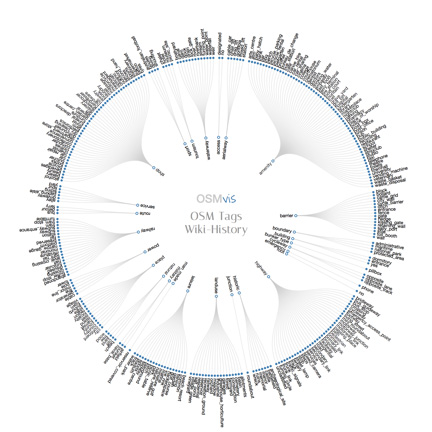
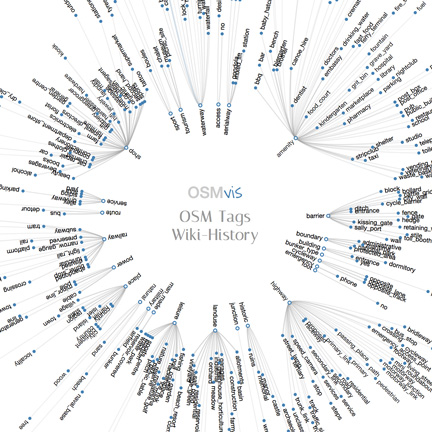
visualizations/osm-tags-history-wiki improved

diff --git a/visualizations/osm-tags-history-wiki/script.js b/visualizations/osm-tags-history-wiki/script.js
@@ -1,9 +1,13 @@
-const diameter = Math.min(window.innerHeight, window.innerWidth) - 50
+const width = window.innerWidth
+const height = window.innerHeight
 const labelWidth = 120
 const animationDuration = 300
 const animationDelay = 100
 const animationEventDelay = 450
 const animationEventHold = 600
+
+const angle = (x, y) => Math.atan(y / x) + (x < 0 ? Math.PI : 0)
+const length = (x, y) => Math.sqrt(x * x + y * y)
 
 $(document).ready(() => {
   d3.json('../data/osm-tags-history-wiki.json', dataset => {
@@ -27,37 +31,39 @@ $(document).ready(() => {
     }
     
     // diagram
-    const svg = d3.select('.svg')
+    const svgParent = d3.select('.svg')
       .append('svg')
-        .attr('width', diameter)
-        .attr('height', diameter)
-        .style('margin-left', -diameter / 2)
-        .style('margin-top', -diameter / 2)
+        .attr('width', width)
+        .attr('height', height)
+        .style('margin-left', -width / 2)
+        .style('margin-top', -height / 2)
       .append('g')
-        .attr('transform', `translate(${diameter / 2}, ${diameter / 2})`)
+        .attr('transform', `translate(${width / 2}, ${height / 2})`)
+    const svg = svgParent.append('g')
+    svgParent.append('g').classed('svg-hover', true)
     
-    var angle = 0;
+    var svgAngle = 0;
     const computeAngle = () => {
       const box = d3.select('.svg').select('svg').node().getBoundingClientRect()
       const centerX = d3.event.x - box.left - box.width / 2
       const centerY = d3.event.y - box.top - box.height / 2
-      return (Math.atan (centerY / centerX) + (centerX < 0 ? Math.PI : 0)) / (2 * Math.PI) * 180 
+      return angle(centerX, centerY) / (2 * Math.PI) * 180 
     }
     const rotateStart = () => {
-      angle -= computeAngle()
+      svgAngle -= computeAngle()
     }
     const rotate = () => {
       const a = computeAngle()
-      svg.attr('transform', `translate(${diameter / 2}, ${diameter / 2}) rotate(${angle + a})`)
+      svgParent.attr('transform', `translate(${width / 2}, ${height / 2}) rotate(${svgAngle + a})`)
     }
     const rotateEnd = () => {
-      angle = angle + computeAngle()
+      svgAngle += computeAngle()
     }
     d3.select('.svg').call(d3.drag().on('start', rotateStart).on('drag', rotate).on('end', rotateEnd))
     
     const stratify = d3.stratify().id(d => d.id).parentId(d => d.parentId)
     const tree = d3.tree()
-      .size([360, diameter / 2 - labelWidth])
+      .size([360, Math.min(width, height) / 2 - labelWidth])
       .separation((a, b) => (a.parent == b.parent ? 1 : 2) / a.depth)
     const project = (a, radius) => [radius * Math.cos((a - 90) / 180 * Math.PI), radius * Math.sin((a - 90) / 180 * Math.PI)]
     
@@ -66,7 +72,39 @@ $(document).ready(() => {
       const dataTree = prepareDataForTree(_(data).filter(d => _(d.history).some(h => h[0].isSameOrBefore(m)) && _(d.history).every(h => h[0].isAfter(m) || h[1] > 0)))
       const root = tree(stratify(_(dataTree).sortBy(x => x.id)))
       
+      const timeScaling = (d, x) => {
+        return (d.data.history === undefined) ? x : d3.zoomIdentity.scale(d3.scaleLinear().domain([1, 1 + datesMax.diff(datesMin)]).range([.6, 2.6])(1 + m.diff(d.data.history[0][0]))).apply(x)
+      }
+      
+      // hover nodes and edges
+      const hoverNode = (node) => {
+        $(`.edge[data-id="${$(node).data('id')}"]`).clone().appendTo('.svg-hover')
+        const hoveredNode = $(node).clone().appendTo('.svg-hover')
+        const circle = $(hoveredNode).find('circle').attr('r', 5)
+        $(circle).clone().addClass('background').insertBefore($(hoveredNode).find('text'))
+        $(hoveredNode).on('mouseout', () => $('.svg-hover').children().remove())
+      }
+      
       // draw edges
+      const computePath = d => {
+        const [x, y] = timeScaling(d, project(d.x, d.y))
+        const [parentX, parentY] = project(d.parent.x, d.parent.y)
+        const a = (angle(parentX, parentY) + 2 * Math.PI) % (2 * Math.PI)
+        const b = (angle(x - parentX, y - parentY) + 2 * Math.PI) % (2 * Math.PI)
+        const angleDiff = (b - a + 5 * Math.PI) % (2 * Math.PI) - Math.PI
+        const angleDiffSqrt = Math.sign(angleDiff) * Math.sqrt(Math.abs(angleDiff))
+        const distToParent = length(x - parentX, y - parentY)
+        const parentLength = length(parentX, parentY)
+        const k = angleDiffSqrt * distToParent / Math.min(window.width, window.height) * 160 / parentLength
+        const dParentX = parentX - k * parentY
+        const dParentY = parentY + k * parentX
+        return `M${x} ${y} C${x} ${y}, ${dParentX} ${dParentY}, ${parentX} ${parentY}`
+      }
+      const computeOpacity = d => {
+        const [x, y] = timeScaling(d, project(d.x, d.y))
+        const [parentX, parentY] = project(d.parent.x, d.parent.y)
+        return .1 + 1 / length(x - parentX, y - parentY) * Math.min(window.width, window.height)/ 15
+      }
       const edge = svg
         .selectAll('.edge')
           .data(_(root.descendants()).filter(d => d.data.key !== undefined && d.data.value !== undefined), d => d.data.id)
@@ -74,14 +112,15 @@ $(document).ready(() => {
         .enter()
         .append('path')
           .style('opacity', 0)
+          .attr('data-id', d => d.id)
           .classed('edge', true)
-          .attr('d', d => `M${project(d.x, d.y)}C${project(d.x, (d.y + d.parent.y) / 2)} ${project(d.parent.x, (d.y + d.parent.y) / 2)} ${project(d.parent.x, d.parent.y)}`)
+          .attr('d', computePath)
       edge
         .exit()
         .remove()
       d3.timeout(() => {
         svg.selectAll('.edge')
-          .style('opacity', 1)
+          .style('opacity', computeOpacity)
       }, animationDuration + 2 * animationDelay)
       
       // animate edges
@@ -89,8 +128,9 @@ $(document).ready(() => {
         svg.selectAll('.edge')
           .transition()
           .duration(animationDuration)
-          .attr('d', d => `M${project(d.x, d.y)}C${project(d.x, (d.y + d.parent.y) / 2)} ${project(d.parent.x, (d.y + d.parent.y) / 2)} ${project(d.parent.x, d.parent.y)}`)
-      }, animationDelay)
+          .attr('d', computePath, animationDelay)
+          .style('opacity', computeOpacity)
+      })
       
       // draw nodes
       const node = svg
@@ -100,14 +140,12 @@ $(document).ready(() => {
         .enter()
         .append('g')
           .style('opacity', 0)
+          .attr('data-id', d => d.id)
           .classed('node', true)
           .classed('node-internal', d => d.children)
           .classed('node-leaf', d => !d.children)
           .classed('event', d => d.data.value !== undefined && _(d.data.history).some(h => (h[0].isAfter(lastRedraw) && h[0].isSameOrBefore(m)) || h[0].isAfter(m) && h[0].isSameOrBefore(lastRedraw)))
-          .attr('transform', d => 'translate(' + project(d.x, d.y) + ')')
-      nodeG
-        .append('circle')
-          .attr('r', 2.5)
+          .attr('transform', d => 'translate(' + timeScaling(d, project(d.x, d.y)) + ')')
       nodeG
         .append('text')
           .text(d => (d.data.value) ? d.data.value : d.data.key)
@@ -115,6 +153,15 @@ $(document).ready(() => {
           .attr('x', d => !d.children ? 6 : -6)
           .style('text-anchor', d => !d.children ? 'start' : 'end')
           .attr('transform', d => `rotate(${d.x - 90})`)
+          .on('mouseover', function() {
+            hoverNode($(this).parent())
+          })
+      nodeG
+        .append('circle')
+          .attr('r', 2.5)
+          .on('mouseover', function() {
+            hoverNode($(this).parent())
+          })
       node
         .exit()
         .remove()
@@ -128,7 +175,7 @@ $(document).ready(() => {
         svg.selectAll('.node')
           .transition()
           .duration(animationDuration)
-            .attr('transform', d => `translate(${project(d.x, d.y)})`)
+            .attr('transform', d => `translate(${timeScaling(d, project(d.x, d.y))})`)
         svg.selectAll('.node').select('text')
           .transition()
           .duration(animationDuration)
@@ -160,7 +207,7 @@ $(document).ready(() => {
       max: datesMax,
       fromFraction: [2, 1],
       callback: redraw,
-      width: diameter,
+      width: .8 * Math.min(width, height),
       playingHide: false,
       playingSpeed: 1250,
       playingFrameRate: 300,

diff --git a/www/style.scss b/www/style.scss
@@ -152,10 +152,17 @@ body.scrolling {
 #timeslider {
   position: absolute;
   left: 50%;
-  bottom: 10px;
+  bottom: 6px;
+  padding: 0 12px 6px 12px;
+  background: rgba(255, 255, 255, .96);
+  .irs.js-irs-0 {
+    margin-top: -12px;
+  }
   .timesliderLabelDefault {
     position: absolute;
-    top: 4px;
+    top: -14px;
+    padding: 6px;
+    background: rgba(255, 255, 255, .96);
   }
   .timesliderLabelTextDefault {
     font-size: $fontSizeSmall;
@@ -166,15 +173,16 @@ body.scrolling {
     @extend .timesliderLabelTextDefault;
     text-align: center;
     width: 100%;
+    left: -6px;
   }
   .timesliderLabelLeft {
     @extend .timesliderLabelDefault;
     @extend .timesliderLabelTextDefault;
-    left: 6px;
+    left: 12px;
   }
   .timesliderPlaying {
     @extend .timesliderLabelDefault;
-    right: 6px;
+    right: 12px;
     font-size: $fontSizeSmall;
     color: $colorPrimaryLightText;
     cursor: pointer;

diff --git a/visualizations/osm-tags-history-wiki/style.scss b/visualizations/osm-tags-history-wiki/style.scss
@@ -18,10 +18,11 @@ h1 {
 .node {
   circle {
     fill: $colorPrimaryDark;
+    pointer-events: all;
   }
   text {
     font-size: $fontSizeSmall;
-    pointer-events: none;
+    pointer-events: all;
   }
 }
 .node-internal {
@@ -36,7 +37,26 @@ h1 {
 }
 .edge {
   fill: none;
-  stroke: $colorGreyLight;
+  stroke: $colorGreySemiLight;
   stroke-opacity: 0.4;
   stroke-width: 1.5px;
+}
+.svg-hover {
+  .node {
+    circle.background,
+    text {
+      stroke: #fff;
+      stroke-width: 6px;
+      stroke-linejoin: round;
+      paint-order: stroke;
+    }
+    text {
+      font-size: $fontSizeLarge;
+      fill: black;
+    }
+  }
+  .edge {
+    stroke: $colorPrimaryDark;
+    stroke-width: 3px;
+  }
 }

diff --git a/www/definitions.scss b/www/definitions.scss
@@ -18,6 +18,7 @@ $textColorVeryLight: $colorGreyLight;
 $fontFamily: 'Helvetica Neue', Helvetica, sans-serif;
 $fontFamilyAlternative: 'Italiana', serif;
 
+$fontSizeLarge: 16px;
 $fontSize: 13px;
 $fontSizeSemiSmall: 12px;
 $fontSizeSmall: 10px;
